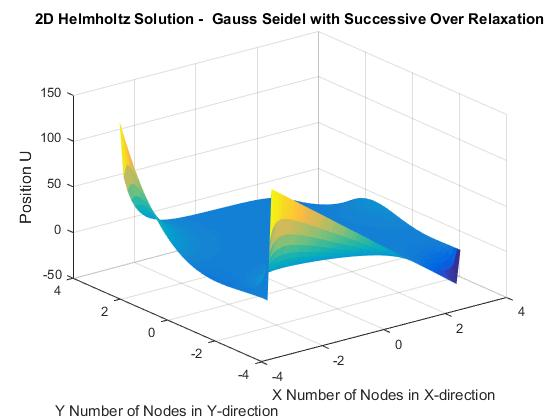
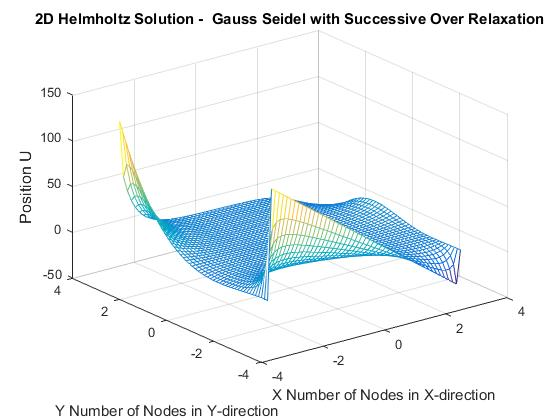
Updating Picture

diff --git a/SRC/Helmholtz_2D_SOR.m b/SRC/Helmholtz_2D_SOR.m
@@ -14,7 +14,7 @@ x= linspace(a_x,b_y,n); %x vector describing nodes in the x-axis
 y= linspace(a_y,b_y,n); %y vector describing nodes in the y-axis
 
 %Discretization Coefficients and initial guess 
-gamma=0;    %Wave constant 
+gamma=-pi;    %Wave constant 
 h= (2*b_x)/n; %Discretization step
 u= zeros(n);  %Initial guess for gauss seidel approximation 
 B= 1.5;       %Betta for over relaxation 
@@ -97,7 +97,7 @@ ylabel('Y Number of Nodes in Y-direction','fontSize',11); %3D figure lable on th
 title('Gauss Seidel for Helmhotlz') 
 % 3D surface graph of the solution 
 figure
-mesh(x,y,u,'EdgeColor','none')
+mesh(x,y,u)
 xlabel('X Number of Nodes in X-direction','fontSize',11); %3D figure lable on the x axis
 ylabel('Y Number of Nodes in Y-direction','fontSize',11); %3D figure lable on the y axis
 zlabel('Position U','fontSize',12);                       %3D figure lable on the z axis

diff --git a/SRC/Helmholtz_2D_ GaussSaidel_Restart.m b/SRC/Helmholtz_2D_ GaussSaidel_Restart.m
@@ -50,7 +50,7 @@ ylabel('Y Number of Nodes in Y-direction','fontSize',11); %3D figure lable on th
 title('Gauss Seidel for Helmhotlz') 
 % 3D surface graph of the solution 
 figure
-mesh(x,y,u,'EdgeColor','none')
+mesh(x,y,u)
 xlabel('X Number of Nodes in X-direction','fontSize',11); %3D figure lable on the x axis
 ylabel('Y Number of Nodes in Y-direction','fontSize',11); %3D figure lable on the y axis
 zlabel('Position U','fontSize',12);                       %3D figure lable on the z axis

diff --git a/SRC/Helmholtz_2D_GaussSaidel.m b/SRC/Helmholtz_2D_GaussSaidel.m
@@ -97,7 +97,7 @@ ylabel('Y Number of Nodes in Y-direction','fontSize',11); %3D figure lable on th
 title('Gauss Seidel for Helmhotlz') 
 % 3D surface graph of the solution 
 figure
-mesh(x,y,u,'EdgeColor','none')
+mesh(x,y,u)
 xlabel('X Number of Nodes in X-direction','fontSize',11); %3D figure lable on the x axis
 ylabel('Y Number of Nodes in Y-direction','fontSize',11); %3D figure lable on the y axis
 zlabel('Position U','fontSize',12);                       %3D figure lable on the z axis

diff --git a/SRC/Helmholtz_2D_SOR_Restarting.m b/SRC/Helmholtz_2D_SOR_Restarting.m
@@ -50,7 +50,7 @@ ylabel('Y Number of Nodes in Y-direction','fontSize',11); %3D figure lable on th
 title('Gauss Seidel for Helmhotlz') 
 % 3D surface graph of the solution 
 figure
-mesh(x,y,u,'EdgeColor','none')
+mesh(x,y,u)
 xlabel('X Number of Nodes in X-direction','fontSize',11); %3D figure lable on the x axis
 ylabel('Y Number of Nodes in Y-direction','fontSize',11); %3D figure lable on the y axis
 zlabel('Position U','fontSize',12);                       %3D figure lable on the z axis
